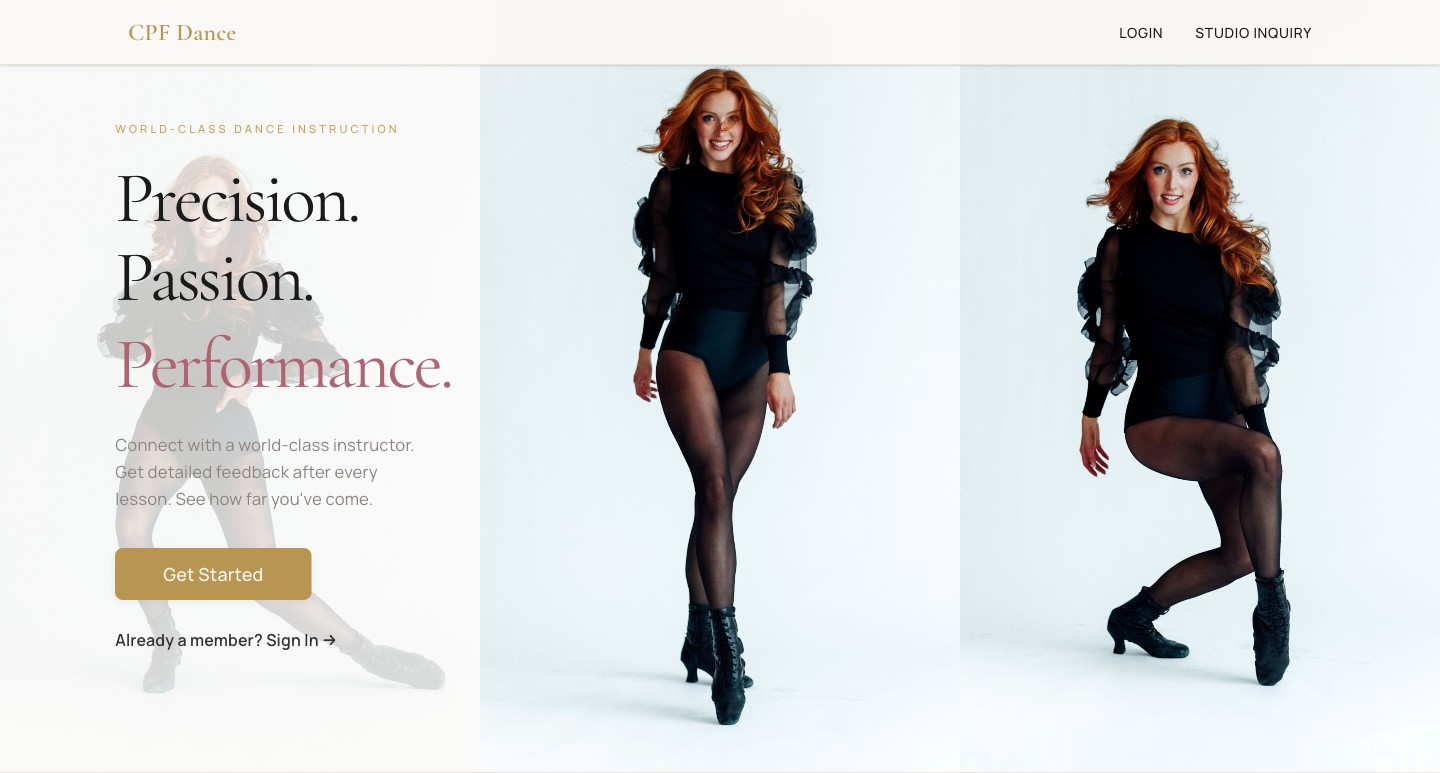
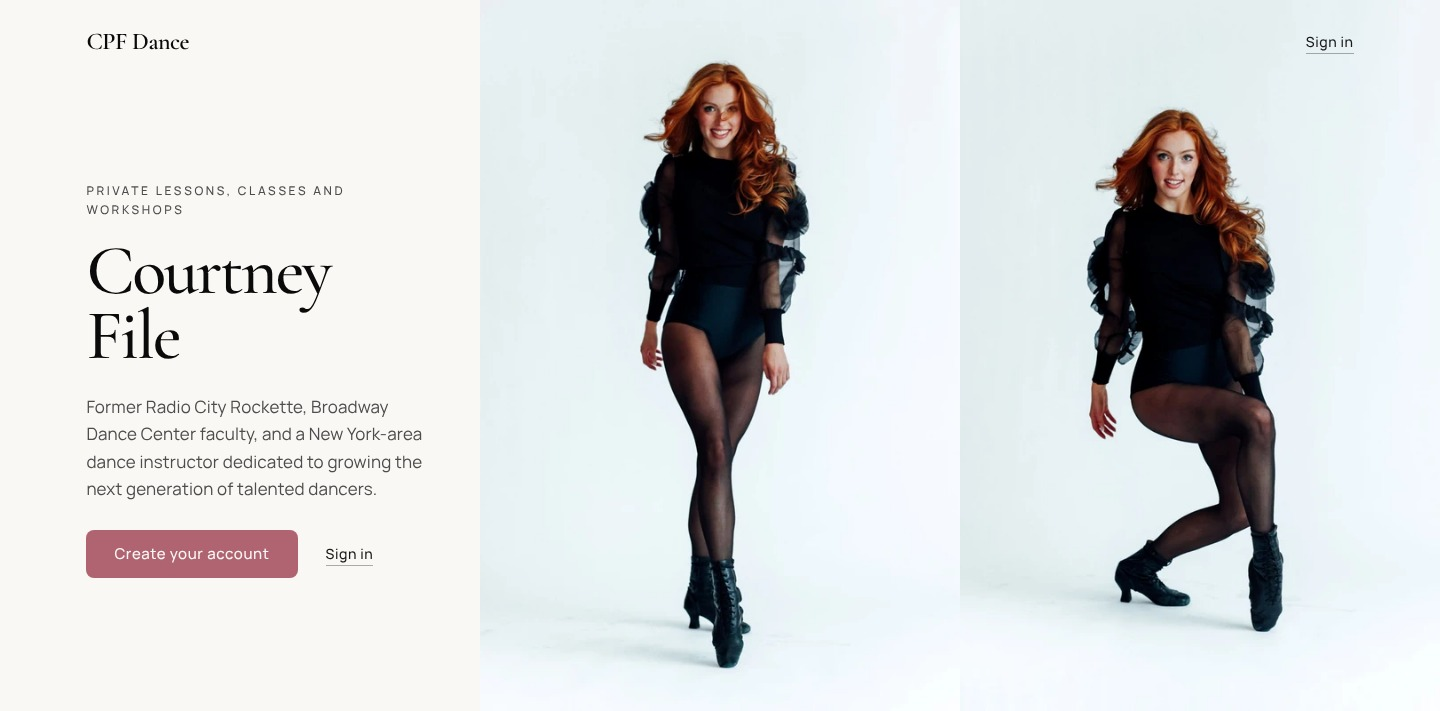
Update CPF Dance screenshot to the current cpfdance.com hero
Claude-Session: https://claude.ai/code/session_01B7m9mgR733Xo1RFAknse6g

diff --git a/client/src/components/projects.tsx b/client/src/components/projects.tsx
@@ -48,7 +48,7 @@ const featured: Feature[] = [
       { label: 'cpfdance.com', url: 'https://cpfdance.com' },
       { label: 'Product spec', url: 'https://github.com/reminiscent-io/CPF-Dance/blob/main/PRODUCT.md' },
     ],
-    image: { src: cpfDanceImg, width: 1440, height: 773, alt: 'CPF Dance home page with photos of a dancer' },
+    image: { src: cpfDanceImg, width: 1440, height: 711, alt: 'CPF Dance home page introducing Courtney File, with two photos of her dancing' },
   },
 ];
 
